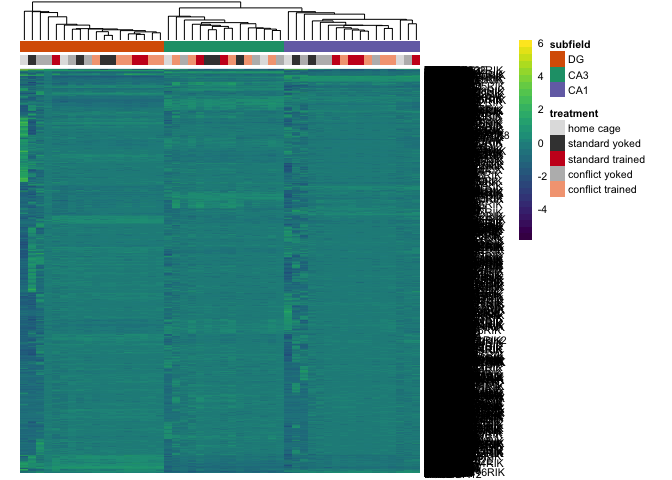
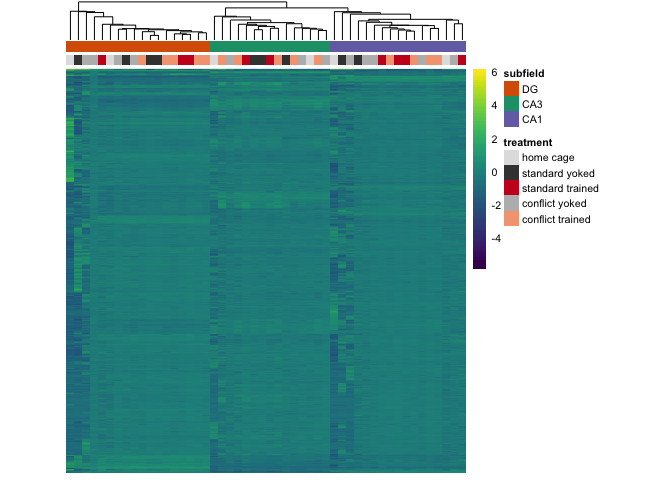
new corr heat map and new volcano

diff --git a/scripts/02b_rnaseqALL.md b/scripts/02b_rnaseqALL.md
@@ -658,11 +658,11 @@ lots of useful info to a df for downstream dataviz.
 
 
     DEGes <- as.matrix(DEGes) 
-    paletteLength <- 30
+    paletteLength <- 80
     myBreaks <- c(seq(min(DEGes), 0, length.out=ceiling(paletteLength/2) + 1), 
                   seq(max(DEGes)/paletteLength, max(DEGes), length.out=floor(paletteLength/2)))
 
-    pheatmap(DEGes, show_colnames=F, show_rownames = T,
+    pheatmap(DEGes, show_colnames=F, show_rownames = F,
              annotation_col=df, 
              annotation_colors = pheatmapcolors,
              treeheight_row = 0, treeheight_col = 25,
@@ -671,7 +671,7 @@ lots of useful info to a df for downstream dataviz.
              annotation_names_row = FALSE, annotation_names_col = FALSE,
              fontsize = 8, 
              border_color = NA ,
-             color = viridis(30),
+             color = viridis(80),
              cellwidth = 6, 
              clustering_method="average",
              breaks=myBreaks,
@@ -689,7 +689,7 @@ lots of useful info to a df for downstream dataviz.
              treeheight_row = 10, treeheight_col = 10,
              fontsize = 6, 
              border_color = NA ,
-             color = viridis(30),
+             color = viridis(80),
              height = 2.5, 
              width = 3.3,
              clustering_method="average",
@@ -1142,6 +1142,10 @@ Volcanos plots and and gene lists
 
     ## quartz_off_screen 
     ##                 2
+
+    plot_grid(d, g, i,nrow = 1)
+
+![](../figures/02b_RNAseqAll/volcanos-7.png)
 
 plot single gene counts
 -----------------------
@@ -1612,3 +1616,19 @@ Observed versus expected ration of DEGs
     plot_grid(e, mylegend, rel_widths   = c(.9, 0.1), ncol = 2)
 
 ![](../figures/02b_RNAseqAll/plottotalDEGs-5.png)
+
+    colData.DG <- subsetcolData(colData,  "DG")
+    colData.CA3 <- subsetcolData(colData,  "CA3")
+    colData.CA1 <- subsetcolData(colData,  "CA1")
+
+    plotcorrelationheatmaps(dds.DG, colData.DG ,"DG correlations")
+
+![](../figures/02b_RNAseqAll/correlationheatmaps-1.png)
+
+    plotcorrelationheatmaps(dds.CA3, colData.CA3 ,"CA3 correlations")
+
+![](../figures/02b_RNAseqAll/correlationheatmaps-2.png)
+
+    plotcorrelationheatmaps(dds.CA1, colData.CA1 ,"CA1 correlations")
+
+![](../figures/02b_RNAseqAll/correlationheatmaps-3.png)
